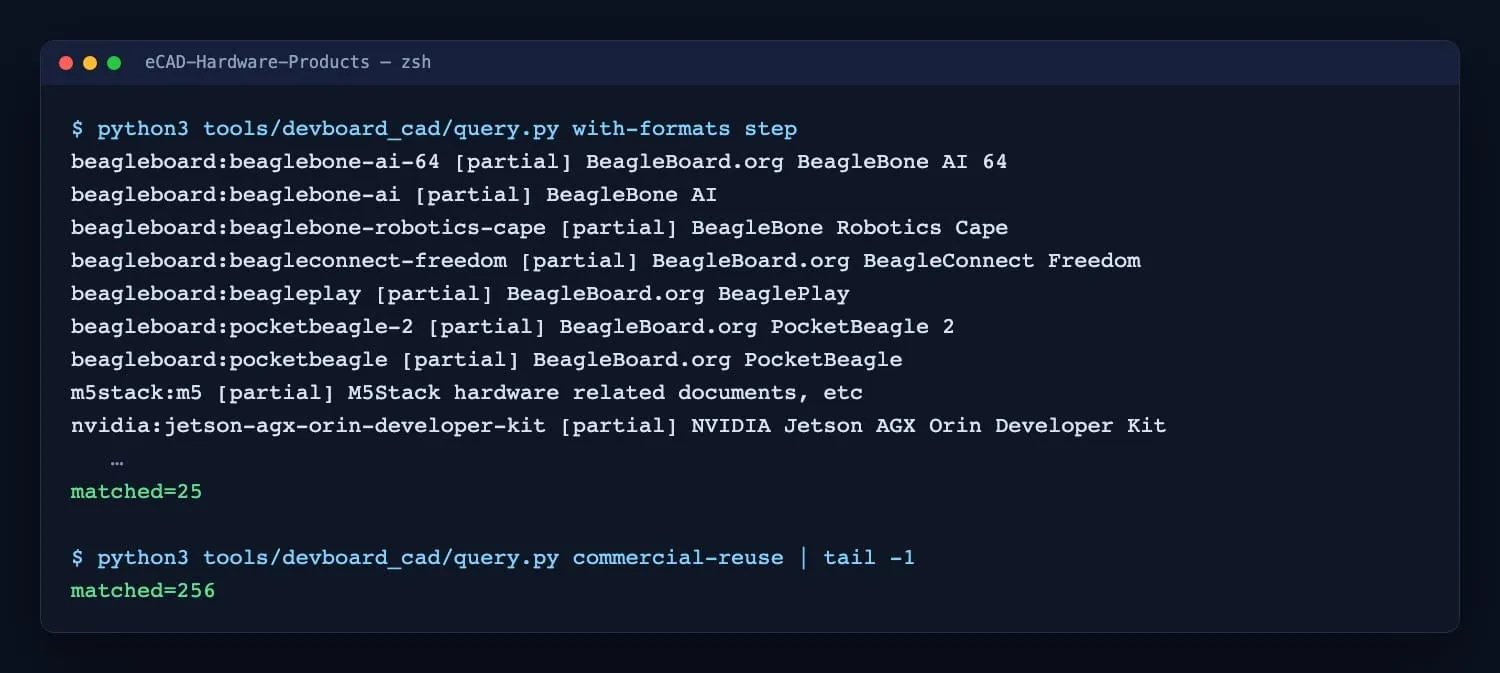
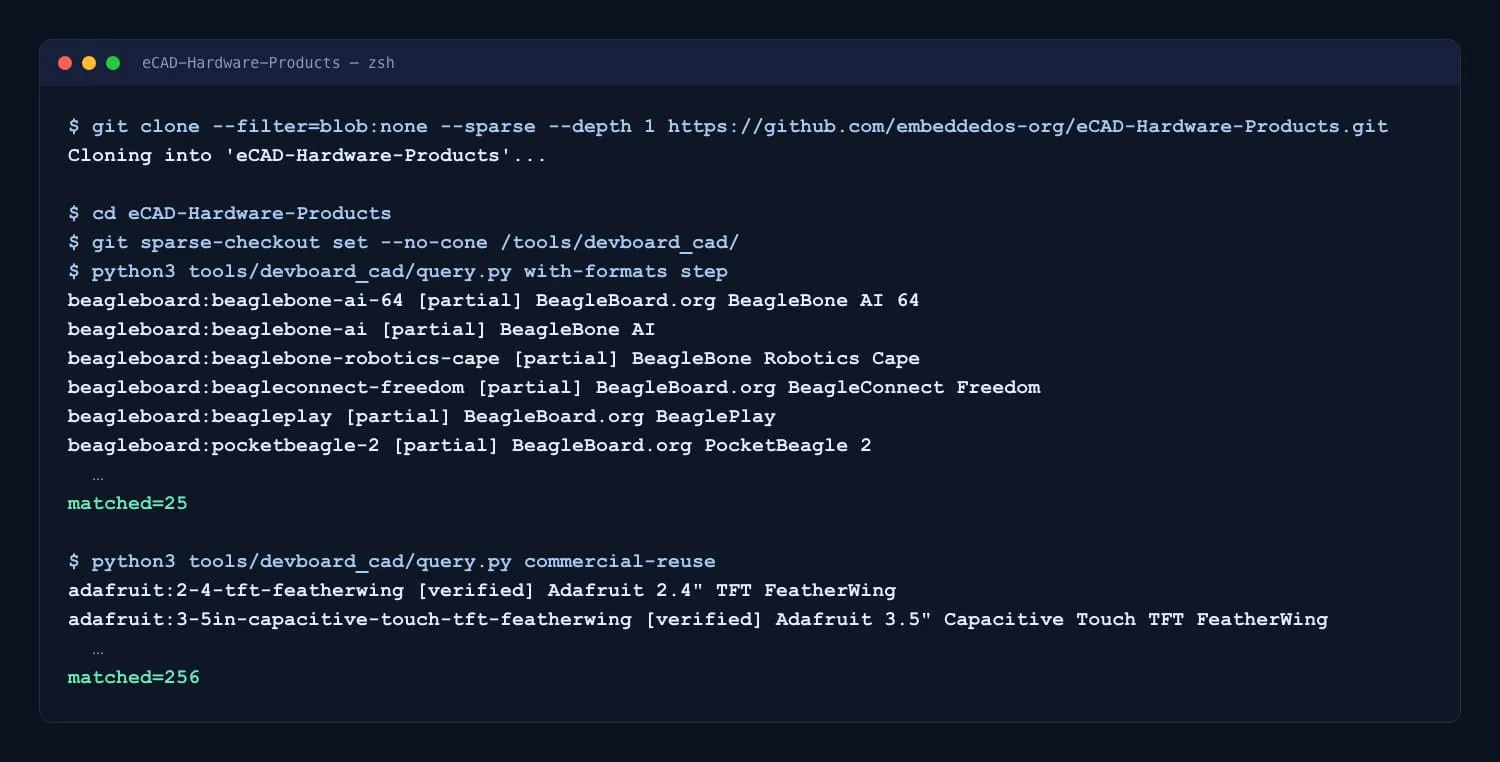
fix(open-hardware): redraw the guide's terminal screenshots from the tested run
The step 1, 2, 4 and 5 screenshots were recorded on the pull request
branch before the guide changed: step 1 ran the query before any clone
and piped it through tail, step 2 cloned one folder on its own and ran
du, step 4 changed into the Gerber folder, and step 5 used cd and a for
loop.

They are now drawn from the same zsh transcript as the how-to video
(eCAD master 23aa853), showing the guide's commands and their output
line for line; the two long query listings are cut with "…" and keep
their matched= line. Each image's width, height and alt text follow the
new picture, and the step 2 caption says what the digests show instead
of explaining du's mebibytes.

The JPEGs, their WebP siblings and scripts/image-manifest.json are as
pnpm build's optimize:images step wrote them.

diff --git a/client/src/pages/OpenHardware.tsx b/client/src/pages/OpenHardware.tsx
@@ -248,8 +248,8 @@ export const USAGE = [
     ],
     file: "open-hardware-terminal-query",
     width: 1500,
-    height: 673,
-    alt: "Terminal output of the database query for boards with a verified STEP model, 25 matched, and 256 records that allow commercial reuse",
+    height: 762,
+    alt: "Terminal output of a blobless sparse clone of eCAD-Hardware-Products that checks out only the database, then the queries for boards with a verified STEP model, 25 matched, and for records that allow commercial reuse, 256 matched",
     caption: `${M.stepBoards} boards have a verified STEP model, and ${M.commercialReuseRecords} records allow commercial reuse.`,
   },
   {
@@ -262,10 +262,10 @@ export const USAGE = [
     ],
     file: "open-hardware-terminal-fetch",
     width: 1600,
-    height: 950,
-    alt: "Terminal output of a sparse clone that fetches only the SparkFun IoT RedBoard RP2350 folder, where du -sh reports 84M of board files and 17M of Git data, listing its KiCad project and four schematic sheets with SHA-256 digests and its CC BY-SA 4.0 licence",
+    height: 617,
+    alt: "Terminal output of adding the SparkFun IoT RedBoard RP2350 folder to the sparse clone: the SHA-256 digests of its four KiCad schematic sheets, and the CC BY-SA 4.0 licence, SparkFun Electronics attribution and 33 CAD files its ATTRIBUTION.md lists",
     caption:
-      "Recorded on the pull request branch before the mirror reached master, with the board folder cloned on its own. du counts in mebibytes: its 84M of files is the 88 MB above.",
+      "Each digest begins with the SHA-256 prefix that the board's ATTRIBUTION.md lists for that sheet.",
   },
   {
     title: "Open the design in KiCad",
@@ -287,8 +287,8 @@ export const USAGE = [
     ],
     file: "open-hardware-terminal-gerber",
     width: 1500,
-    height: 805,
-    alt: "Terminal output listing the SparkFun Edge design folder and naming the ten layers of its Gerber set: copper, silkscreen, solder paste and solder mask for each side, the outline and the drill file",
+    height: 559,
+    alt: "Terminal output of adding the SparkFun Edge Gerber folder to the sparse clone and naming the ten layers of its Gerber set: copper, silkscreen, solder paste and solder mask for each side, the outline and the drill file",
     caption:
       "Ten files, ten layers. The rendered board is in the Gerber section below.",
   },
@@ -307,8 +307,8 @@ export const USAGE = [
     ],
     file: "open-hardware-terminal-step",
     width: 1600,
-    height: 350,
-    alt: "Terminal output of three STEP models measured with OpenCASCADE: BeagleBone AI-64 102.5 by 82.6 by 36.6 mm, PocketBeagle 56.4 by 35.0 mm and the SparkFun Artemis module",
+    height: 501,
+    alt: "Terminal output of adding three STEP files to the sparse clone and measuring them with OpenCASCADE: BeagleBone AI-64 102.5 by 82.6 by 36.6 mm, PocketBeagle 56.4 by 35.0 mm and the SparkFun Artemis module 10.5 by 15.5 mm",
     caption:
       "Overall size in millimetres, from each manufacturer's own STEP file.",
   },
